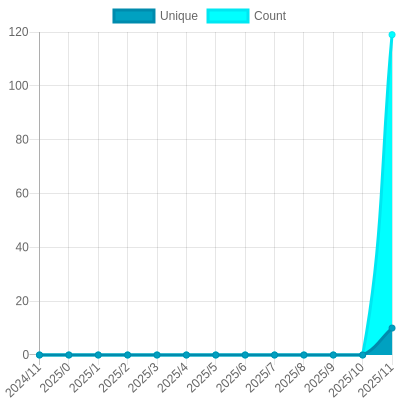
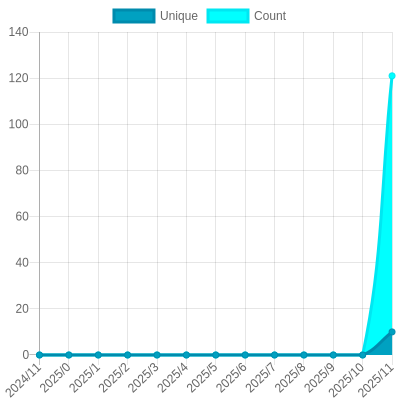
Update views

diff --git a/readme/898470849/year.md b/readme/898470849/year.md
@@ -26,7 +26,7 @@
 			<code>10</code>
 		</td>
 		<td>
-			<code>119</code>
+			<code>121</code>
 		</td>
 	</tr>
 	<tr>
@@ -164,7 +164,7 @@
 </table>
 
 </details>
-<small><i>Last updated on 2024/12/10 6:11 AM UTC</i></small>
+<small><i>Last updated on 2024/12/10 12:15 PM UTC</i></small>
 
 ## ✂Copy and 📋 Paste
 ### SVG Badge

diff --git a/README.md b/README.md
@@ -661,7 +661,7 @@ The project created and maintained by [gayanvoice](https://github.com/gayanvoice
 	</tr>
 </table>
 
-<small><i>Last updated on 2024/12/10 6:16 AM UTC</i></small>
+<small><i>Last updated on 2024/12/10 12:19 PM UTC</i></small>
 
 ## ✂Copy and 📋 Paste
 ### Total Views Badge

diff --git a/readme/741767733/year.md b/readme/741767733/year.md
@@ -164,7 +164,7 @@
 </table>
 
 </details>
-<small><i>Last updated on 2024/12/10 6:16 AM UTC</i></small>
+<small><i>Last updated on 2024/12/10 12:19 PM UTC</i></small>
 
 ## ✂Copy and 📋 Paste
 ### SVG Badge

diff --git a/readme/743040344/year.md b/readme/743040344/year.md
@@ -164,7 +164,7 @@
 </table>
 
 </details>
-<small><i>Last updated on 2024/12/10 6:16 AM UTC</i></small>
+<small><i>Last updated on 2024/12/10 12:19 PM UTC</i></small>
 
 ## ✂Copy and 📋 Paste
 ### SVG Badge

diff --git a/readme/743190582/year.md b/readme/743190582/year.md
@@ -164,7 +164,7 @@
 </table>
 
 </details>
-<small><i>Last updated on 2024/12/10 6:16 AM UTC</i></small>
+<small><i>Last updated on 2024/12/10 12:19 PM UTC</i></small>
 
 ## ✂Copy and 📋 Paste
 ### SVG Badge

diff --git a/readme/743191581/year.md b/readme/743191581/year.md
@@ -164,7 +164,7 @@
 </table>
 
 </details>
-<small><i>Last updated on 2024/12/10 6:15 AM UTC</i></small>
+<small><i>Last updated on 2024/12/10 12:18 PM UTC</i></small>
 
 ## ✂Copy and 📋 Paste
 ### SVG Badge

diff --git a/readme/743191862/year.md b/readme/743191862/year.md
@@ -164,7 +164,7 @@
 </table>
 
 </details>
-<small><i>Last updated on 2024/12/10 6:15 AM UTC</i></small>
+<small><i>Last updated on 2024/12/10 12:19 PM UTC</i></small>
 
 ## ✂Copy and 📋 Paste
 ### SVG Badge

diff --git a/readme/743233508/year.md b/readme/743233508/year.md
@@ -164,7 +164,7 @@
 </table>
 
 </details>
-<small><i>Last updated on 2024/12/10 6:11 AM UTC</i></small>
+<small><i>Last updated on 2024/12/10 12:14 PM UTC</i></small>
 
 ## ✂Copy and 📋 Paste
 ### SVG Badge

diff --git a/readme/744316609/year.md b/readme/744316609/year.md
@@ -164,7 +164,7 @@
 </table>
 
 </details>
-<small><i>Last updated on 2024/12/10 6:15 AM UTC</i></small>
+<small><i>Last updated on 2024/12/10 12:18 PM UTC</i></small>
 
 ## ✂Copy and 📋 Paste
 ### SVG Badge

diff --git a/readme/751849429/year.md b/readme/751849429/year.md
@@ -164,7 +164,7 @@
 </table>
 
 </details>
-<small><i>Last updated on 2024/12/10 6:15 AM UTC</i></small>
+<small><i>Last updated on 2024/12/10 12:18 PM UTC</i></small>
 
 ## ✂Copy and 📋 Paste
 ### SVG Badge

diff --git a/readme/763072915/year.md b/readme/763072915/year.md
@@ -164,7 +164,7 @@
 </table>
 
 </details>
-<small><i>Last updated on 2024/12/10 6:15 AM UTC</i></small>
+<small><i>Last updated on 2024/12/10 12:18 PM UTC</i></small>
 
 ## ✂Copy and 📋 Paste
 ### SVG Badge

diff --git a/readme/767313267/year.md b/readme/767313267/year.md
@@ -164,7 +164,7 @@
 </table>
 
 </details>
-<small><i>Last updated on 2024/12/10 6:15 AM UTC</i></small>
+<small><i>Last updated on 2024/12/10 12:18 PM UTC</i></small>
 
 ## ✂Copy and 📋 Paste
 ### SVG Badge
